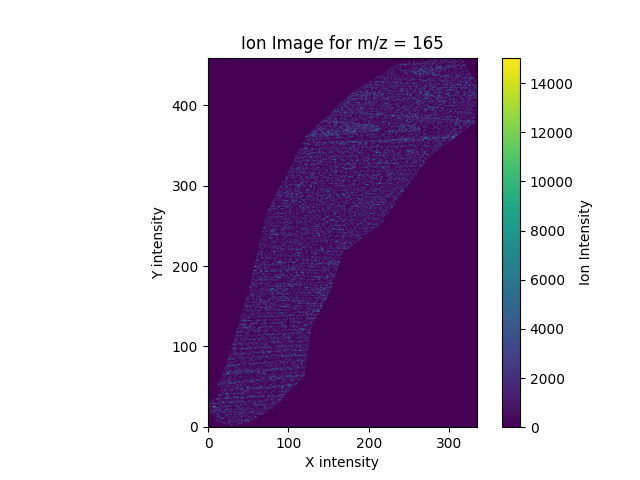
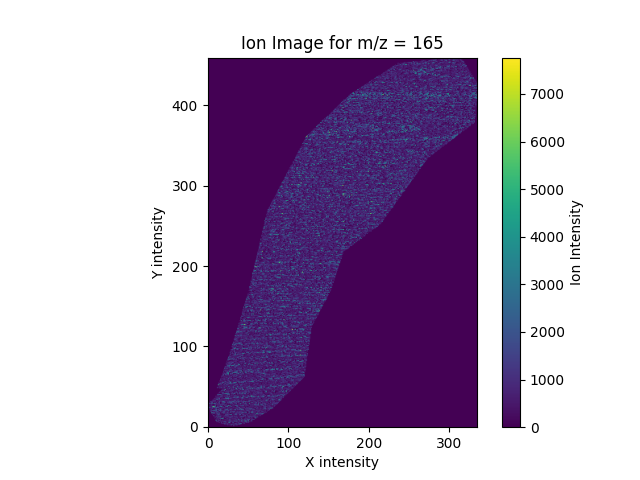
Higher tolerance

diff --git a/src/Openh5.py b/src/Openh5.py
@@ -32,7 +32,7 @@ import numpy as np
 import matplotlib.pyplot as plt
 # Choose the m/z you want to plot  and tolerance
 target_mz = 165
-tolerance = 0.02
+tolerance = 1.02
 
 # Get image dimensions
 all_coords = [coord for _, _, coord in my_spectra]
